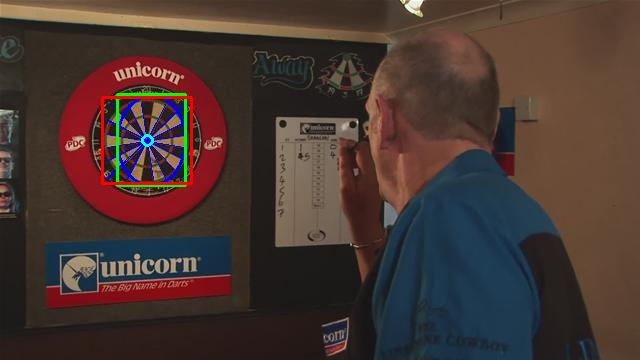
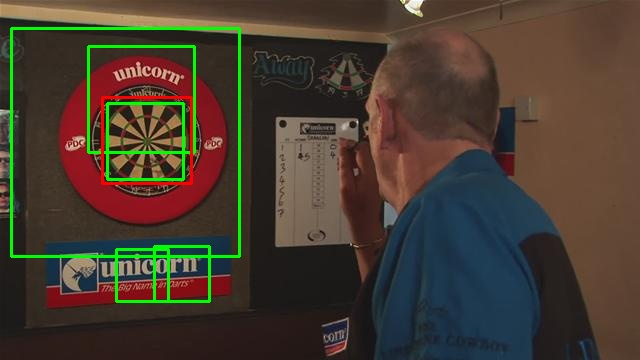
getting just dartboard viola jones

Changed region(s): [[0.0, 0.0611, 0.4062, 0.8556], [0.125, 0.1222, 0.3125, 0.55]]

diff --git a/framework.py b/framework.py
@@ -65,7 +65,7 @@ def line_intersection(line1, line2):
     return (int(x), int(y))
 
 #detects image and returns array called 'faces' with subarrays containg x, y, width and height of all boxes around detected faces.
-def detect(image, scaleFactor=1.2, minNeighbors=1.7):
+def detect(image, scaleFactor=1.2, minNeighbors=7):
     if args.classifier == "dartboard":
         scaleFactor = 1.1
         minNeighbors = 1
@@ -77,78 +77,81 @@ def detect(image, scaleFactor=1.2, minNeighbors=1.7):
     faces = np.asarray(face_cascade.detectMultiScale(image=gray, scaleFactor=scaleFactor,
     minNeighbors=minNeighbors, minSize=(50, 50), maxSize=(500,500)))
 
+    # if args.classifier == "dartboard":
+    #     # highlights regions of interest and draws them onto the image.
+    #     ROIs = []
+    #     tmp_faces = []
+    #     final_faces = []
+    #     dropped = []
+    #     for i, f1 in enumerate(faces):
+    #         if  i not in dropped:
+    #             for j, f2 in enumerate(faces):
+    #                 if i != j and j not in dropped:
+    #                     z = iou(f1, f2)
+    #                     z = iouThreshold(z, 0.1)
+    #                     if z == 1:
+    #                         _, _, w1, h1 = f1
+    #                         _, _, w2, h2 = f2
+    #                         if (w1*h1) <= (w2*h2):
+    #                             dropped.append(j)
+    #                         else:
+    #                             dropped.append(i)
+    #
+    #     tmp_faces = [face for i, face in enumerate(faces) if i not in dropped]
+
+        # for (x,y,w,h) in tmp_faces:
+        #
+        #     roi = img[y:y+h, x:x+w]
+        #     edges = cv.Canny(image=roi, threshold1 = 100, threshold2 = 200 )
+        #     lines = hough_lines(image=edges)
+        #     intersections = []
+        #     if(len(lines) > 0):
+        #         for i, line in enumerate(lines):
+        #             x1, y1 = line[0]
+        #             x2, y2 = line[1]
+        #             p1, p2 = (x1+x, y1+y), (x2+x, y2+y)
+        #             cv.line(output, p1, p2, (255, 0, 0), 1)
+        #             for j, line2 in enumerate(lines):
+        #                 if i != j:
+        #                     p = line_intersection(line, line2)
+        #                     if p != None:
+        #                         intersections.append(p)
+        #
+        #     centre = None
+        #     if(len(intersections)>0):
+        #         intersections = np.asarray(intersections)
+        #         meanx = np.mean(intersections[:, 0])
+        #         meany = np.mean(intersections[:, 1])
+        #         centre = (int(np.round(meanx)), int(np.round(meany)))
+        #         cv.circle(output,  (int(np.round(meanx))+x, int(np.round(meany))+y), 5, (255, 255, 0), 2)
+        #
+        #     edges = cv.Canny(image=roi, threshold1=100, threshold2=250)
+        #     cv.imwrite('edges.jpg', edges)
+        #     ellipses = hough_ellipse(edges, centre = centre)
+        #     if np.all(ellipses) != None:
+        #         for ellipse in ellipses:
+        #             x0, y0, a, b, alpha = ellipse
+        #             x0 += x
+        #             y0 += y
+        #             cv.ellipse(output, (int(x0), int(y0)), (int(a), int(b)), alpha, 0, 360, (255,0,0), 2)
+        #     else:
+        #         ellipses = []
+        #
+        #     if len(ellipses) > 0 :
+        #         x0,  y0,  a, b,  alpha = ellipses[0]
+        #         x0 += x
+        #         y0 += y
+        #         # if 4*a*b < 0.* w * h:
+        #         x = int(x0-a)
+        #         y=int(y0-b)
+        #         w=int(2*a)
+        #         h=int(2*b)
     if args.classifier == "dartboard":
-        # highlights regions of interest and draws them onto the image.
-        ROIs = []
-        tmp_faces = []
         final_faces = []
-        dropped = []
-        for i, f1 in enumerate(faces):
-            if  i not in dropped:
-                for j, f2 in enumerate(faces):
-                    if i != j and j not in dropped:
-                        z = iou(f1, f2)
-                        z = iouThreshold(z, 0.1)
-                        if z == 1:
-                            _, _, w1, h1 = f1
-                            _, _, w2, h2 = f2
-                            if (w1*h1) <= (w2*h2):
-                                dropped.append(j)
-                            else:
-                                dropped.append(i)
+        for (x,y,w,h) in faces:
+            output = cv.rectangle(output,(x,y),(x+w,y+h),(0,255,0),2)
+            final_faces.append((x,y,w,h))
 
-        tmp_faces = [face for i, face in enumerate(faces) if i not in dropped]
-
-        for (x,y,w,h) in tmp_faces:
-
-            roi = img[y:y+h, x:x+w]
-            edges = cv.Canny(image=roi, threshold1 = 100, threshold2 = 200 )
-            lines = hough_lines(image=edges)
-            intersections = []
-            if(len(lines) > 0):
-                for i, line in enumerate(lines):
-                    x1, y1 = line[0]
-                    x2, y2 = line[1]
-                    p1, p2 = (x1+x, y1+y), (x2+x, y2+y)
-                    cv.line(output, p1, p2, (255, 0, 0), 1)
-                    for j, line2 in enumerate(lines):
-                        if i != j:
-                            p = line_intersection(line, line2)
-                            if p != None:
-                                intersections.append(p)
-
-            centre = None
-            if(len(intersections)>0):
-                intersections = np.asarray(intersections)
-                meanx = np.mean(intersections[:, 0])
-                meany = np.mean(intersections[:, 1])
-                centre = (int(np.round(meanx)), int(np.round(meany)))
-                cv.circle(output,  (int(np.round(meanx))+x, int(np.round(meany))+y), 5, (255, 255, 0), 2)
-
-            edges = cv.Canny(image=roi, threshold1=100, threshold2=250)
-            cv.imwrite('edges.jpg', edges)
-            ellipses = hough_ellipse(edges, centre = centre)
-            if np.all(ellipses) != None:
-                for ellipse in ellipses:
-                    x0, y0, a, b, alpha = ellipse
-                    x0 += x
-                    y0 += y
-                    cv.ellipse(output, (int(x0), int(y0)), (int(a), int(b)), alpha, 0, 360, (255,0,0), 2)
-            else:
-                ellipses = []
-
-            if len(ellipses) > 0 :
-                x0,  y0,  a, b,  alpha = ellipses[0]
-                x0 += x
-                y0 += y
-                # if 4*a*b < 0.* w * h:
-                x = int(x0-a)
-                y=int(y0-b)
-                w=int(2*a)
-                h=int(2*b)
-
-                output = cv.rectangle(output,(x,y),(x+w,y+h),(0,255,0),2)
-                final_faces.append((x,y,w,h))
     else:
         final_faces = []
         for (x,y,w,h) in faces:
